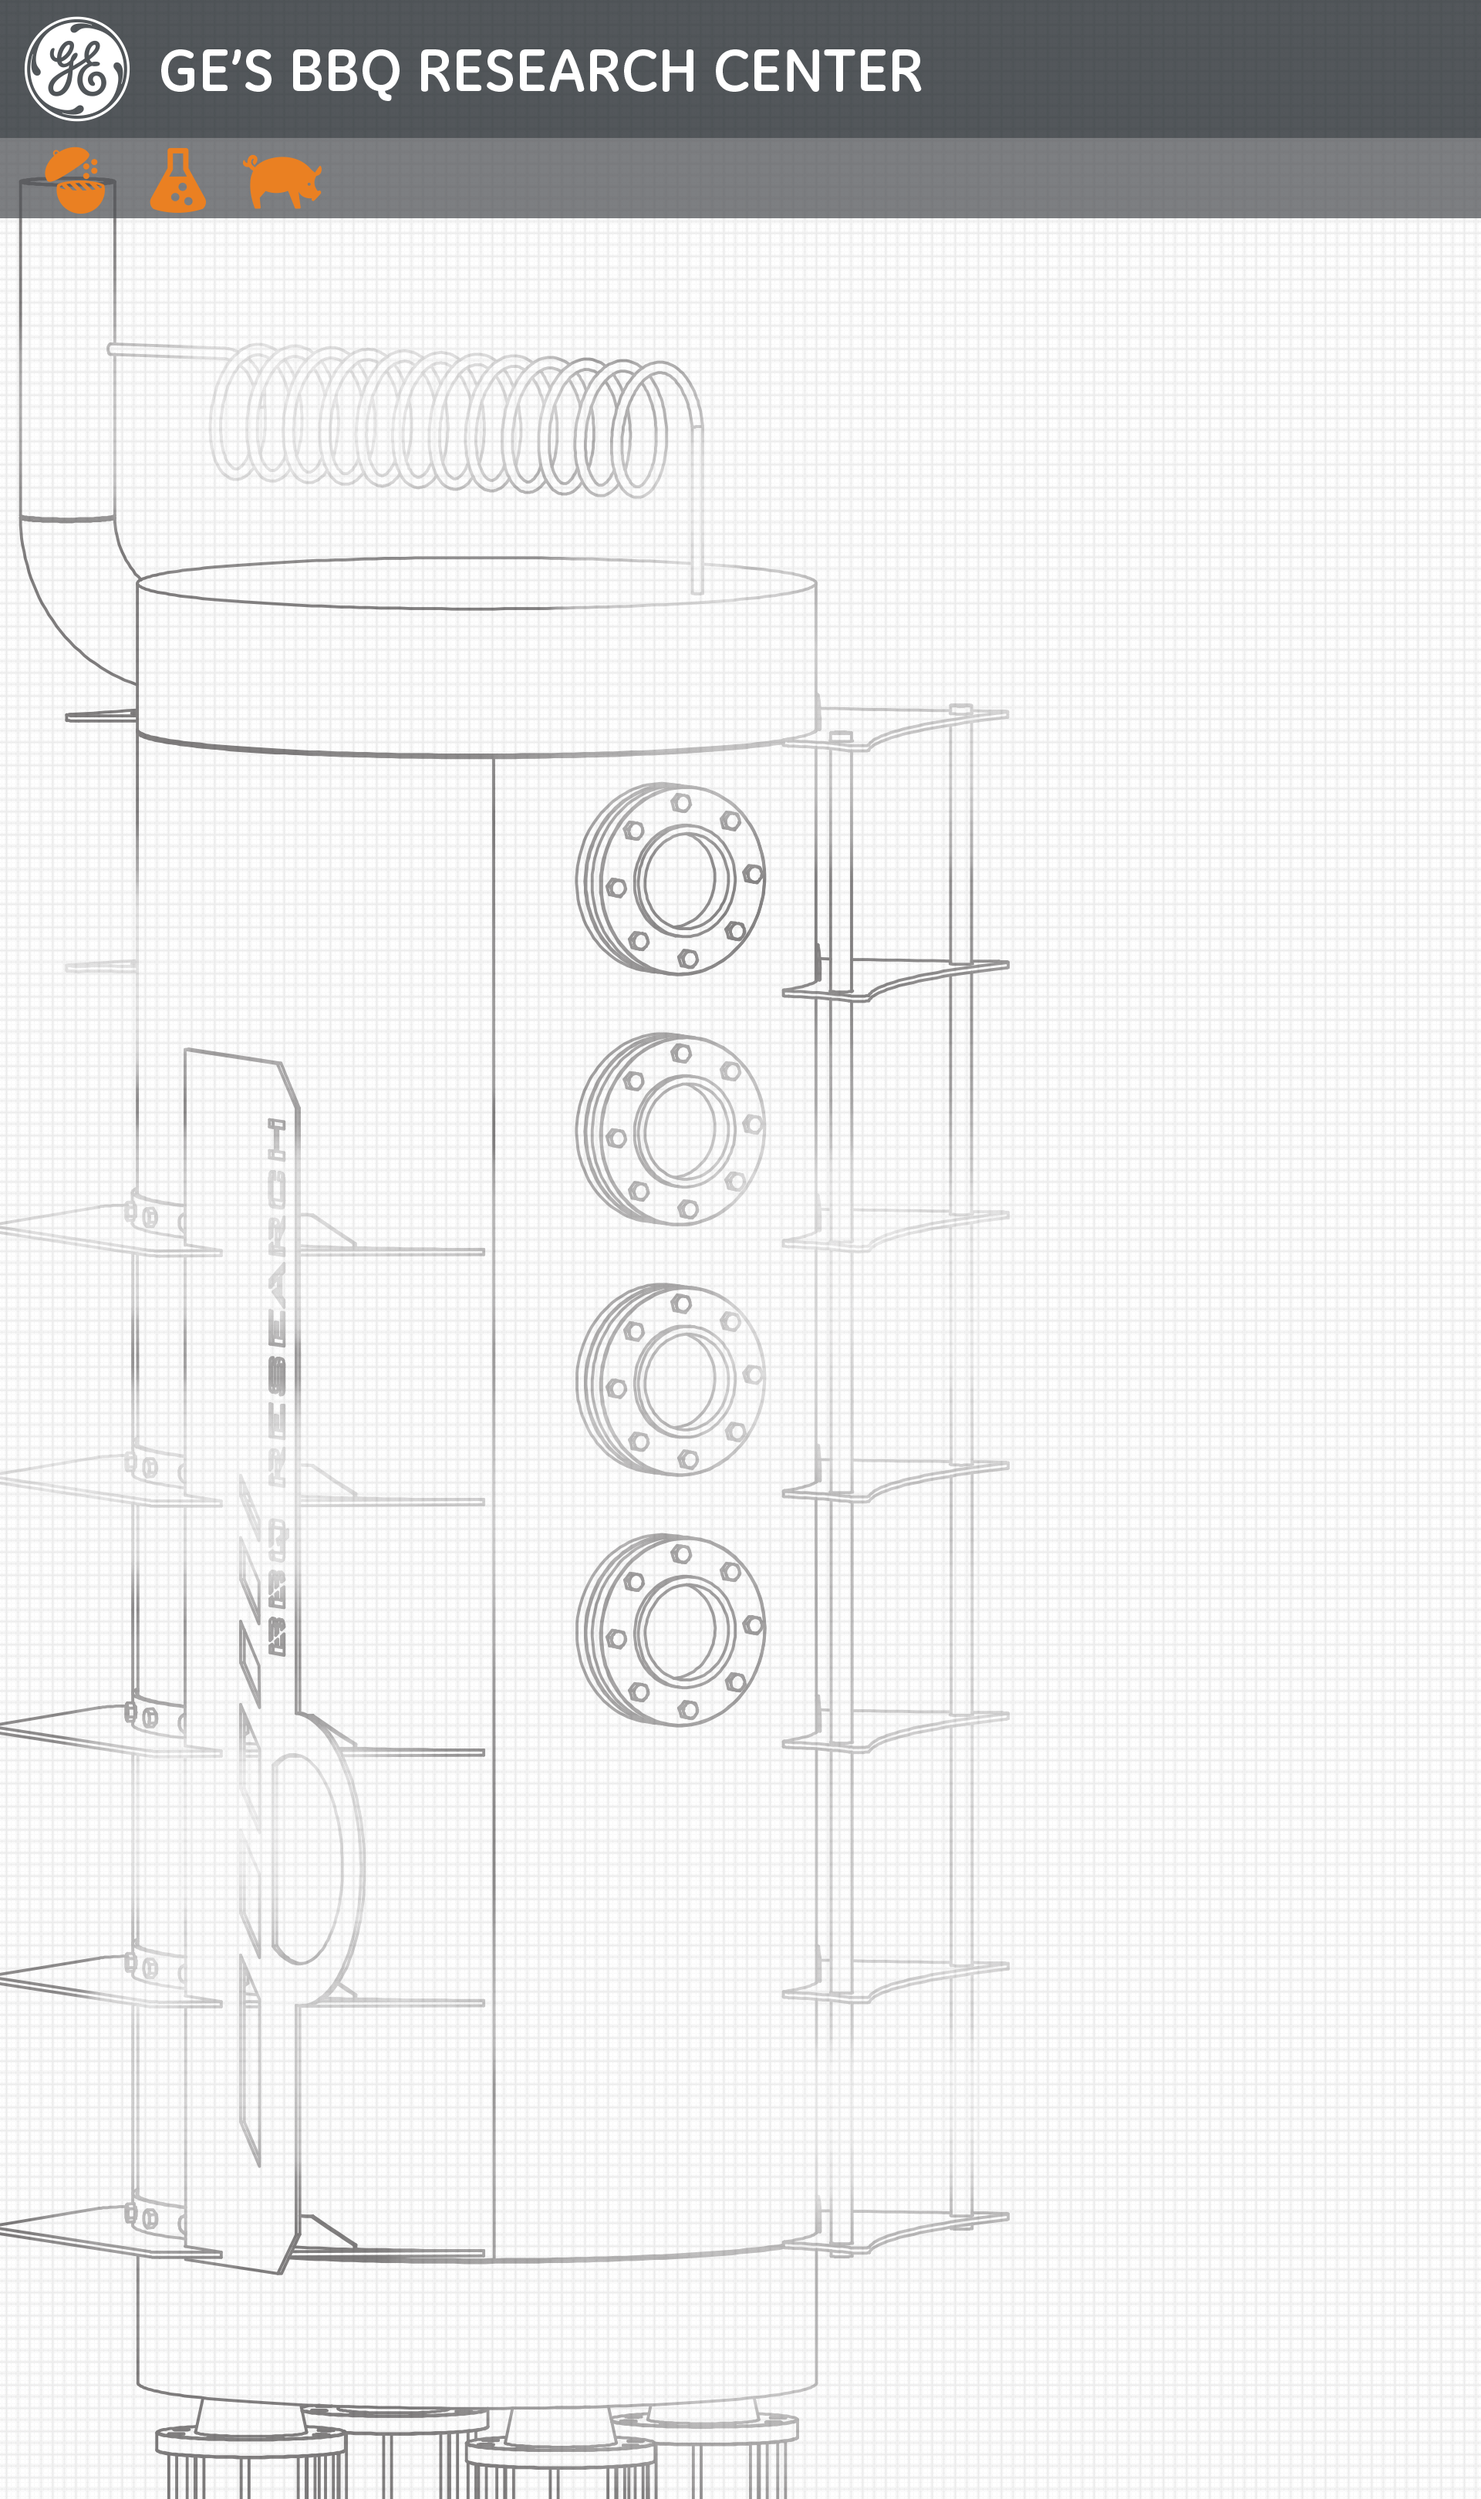
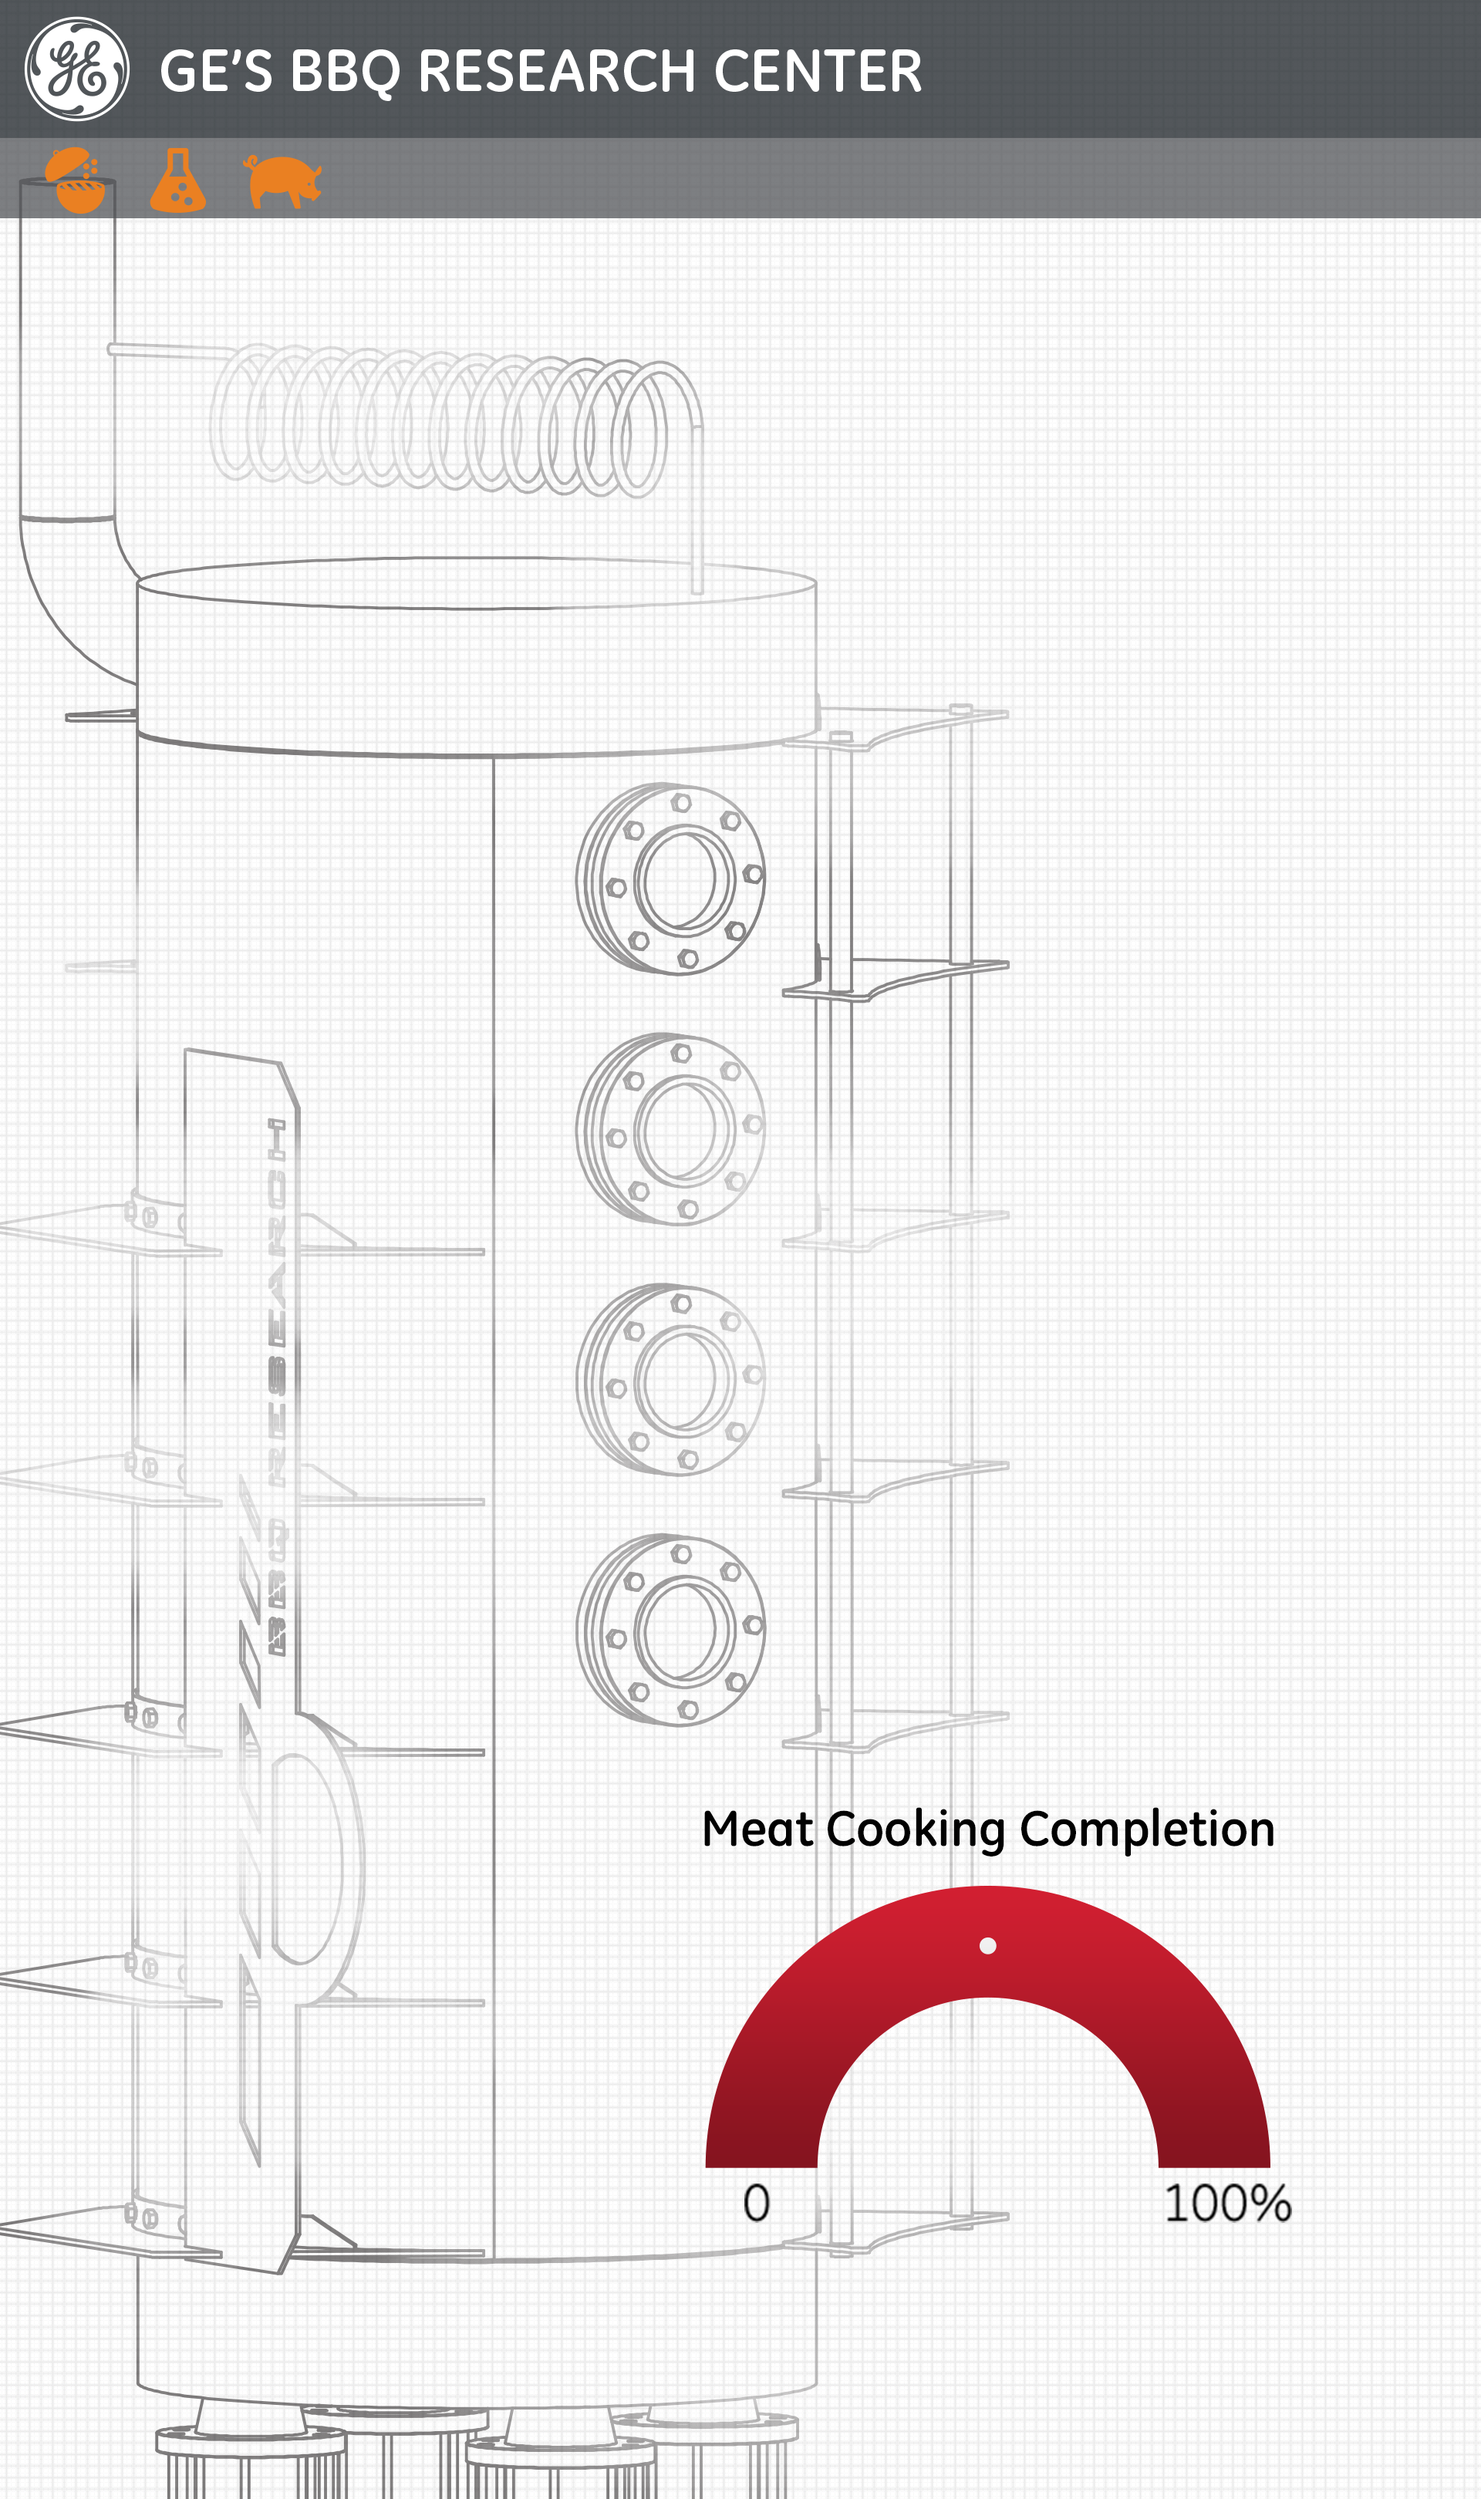
dial is in on screen 3

Changed region(s): [[0.4688, 0.717, 0.875, 0.904]]

diff --git a/GE_smoker-screen3/src/ofApp.cpp b/GE_smoker-screen3/src/ofApp.cpp
@@ -38,8 +38,14 @@ void ofApp::update(){
     meatTemp1.update(ofToString(t1,1)+ui.degreeSymbolUnicode);
     meatTemp2.update(ofToString(t2,1)+ui.degreeSymbolUnicode);
     
-    meatTemp1.draw(100, 640);
-    meatTemp2.draw(100, 940);
+    meatTemp1.draw(100, ui.readingSpacing);
+    meatTemp2.draw(100, 650);
+    
+    //THE DIAL
+    int targetTemp = 200;
+    dial.update(t1/targetTemp);
+    //dial.update(0);
+    dial.draw(1284,642);
     
     ui.screenFbo.end();
     //*********************************

diff --git a/GE_smoker-screen3/src/Dial.cpp b/GE_smoker-screen3/src/Dial.cpp
@@ -1,0 +1,30 @@
+//
+//  Dial.cpp
+//  GE_smoker-screen3
+//
+//  Created by Jack Kalish on 3/2/15.
+//
+//
+
+#include "Dial.h"
+
+Dial::Dial(){
+    needle.load("needle.svg");
+}
+
+void Dial::setup(){
+    
+}
+
+void Dial::update(float val){
+    float clamped = ofClamp(val, 0, 1);
+    rotation = 180*clamped;
+}
+
+void Dial::draw(int x, int y){
+    ofPushMatrix();
+    ofTranslate(x, y);
+    ofRotate(rotation);
+    needle.draw();
+    ofPopMatrix();
+}

diff --git a/GE_smoker-screen3/src/Dial.h b/GE_smoker-screen3/src/Dial.h
@@ -1,0 +1,27 @@
+//
+//  Dial.h
+//  GE_smoker-screen3
+//
+//  Created by Jack Kalish on 3/2/15.
+//
+//
+
+#ifndef __GE_smoker_screen3__Dial__
+#define __GE_smoker_screen3__Dial__
+
+#include "ofMain.h"
+#include "ofxSvg.h"
+
+#endif /* defined(__GE_smoker_screen3__Dial__) */
+
+class Dial{
+public:
+    Dial();
+    void setup();
+    void update(float val);
+    void draw(int x, int y);
+    
+private:
+    ofxSVG needle;
+    float rotation;
+};

diff --git a/GE_smoker-screen3/src/ofApp.h b/GE_smoker-screen3/src/ofApp.h
@@ -4,6 +4,7 @@
 #include "DataReader.h"
 #include "SensorReading.h"
 #include "uiManager.h"
+#include "Dial.h"
 
 class ofApp : public ofBaseApp{
 	
@@ -27,6 +28,8 @@ class ofApp : public ofBaseApp{
     SensorReading meatTemp1, meatTemp2;
     
     uiManager ui;
+    
+    Dial dial;
     
 };
 

diff --git a/src/uiManager.h b/src/uiManager.h
@@ -26,7 +26,7 @@ class uiManager{
     
     ofxFTGLFont fontGE170B, fontGE85B, fontGE54B;
     
-    int w, h, startTime, _screenNum;
+    int w, h, startTime, _screenNum, readingSpacing;
     float secondsPassed, timePassed;
     
     ofFbo screenFbo;

diff --git a/src/uiManager.cpp b/src/uiManager.cpp
@@ -46,6 +46,7 @@ uiManager::uiManager(){
 
     
     _screenNum = 1;
+    readingSpacing = 360;
 }
 
 void uiManager::setup(int screenNum){
